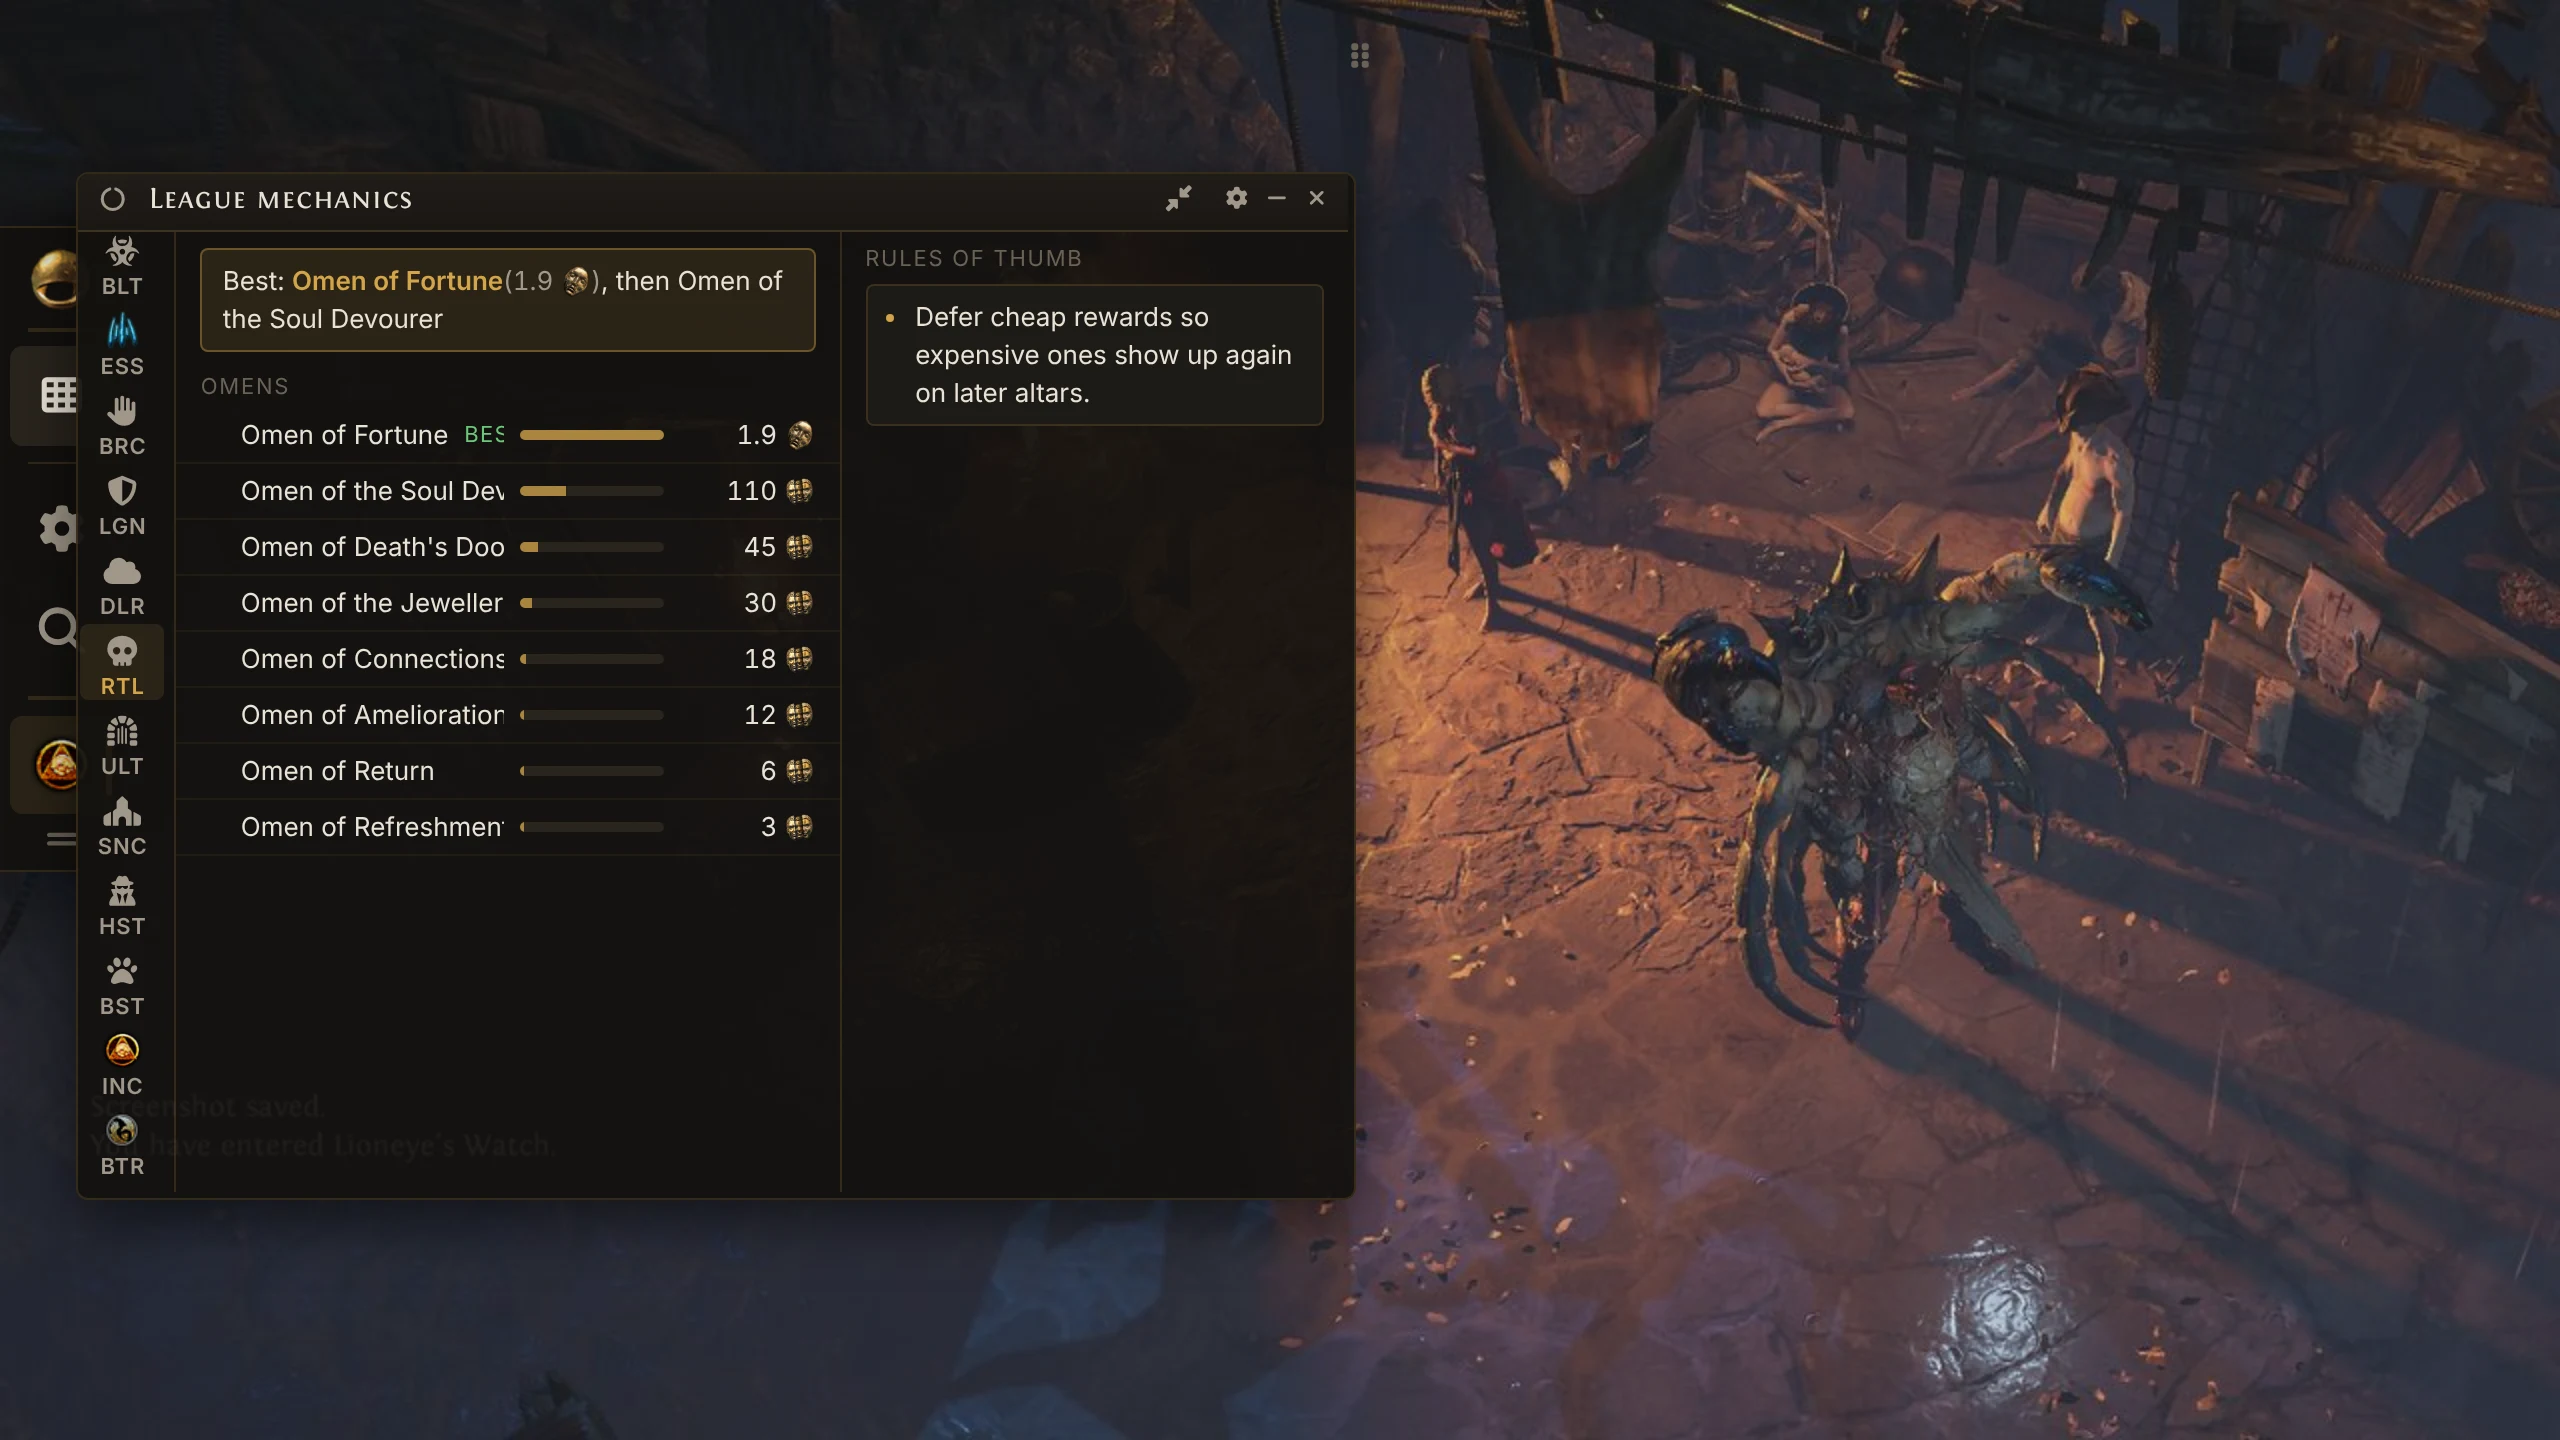
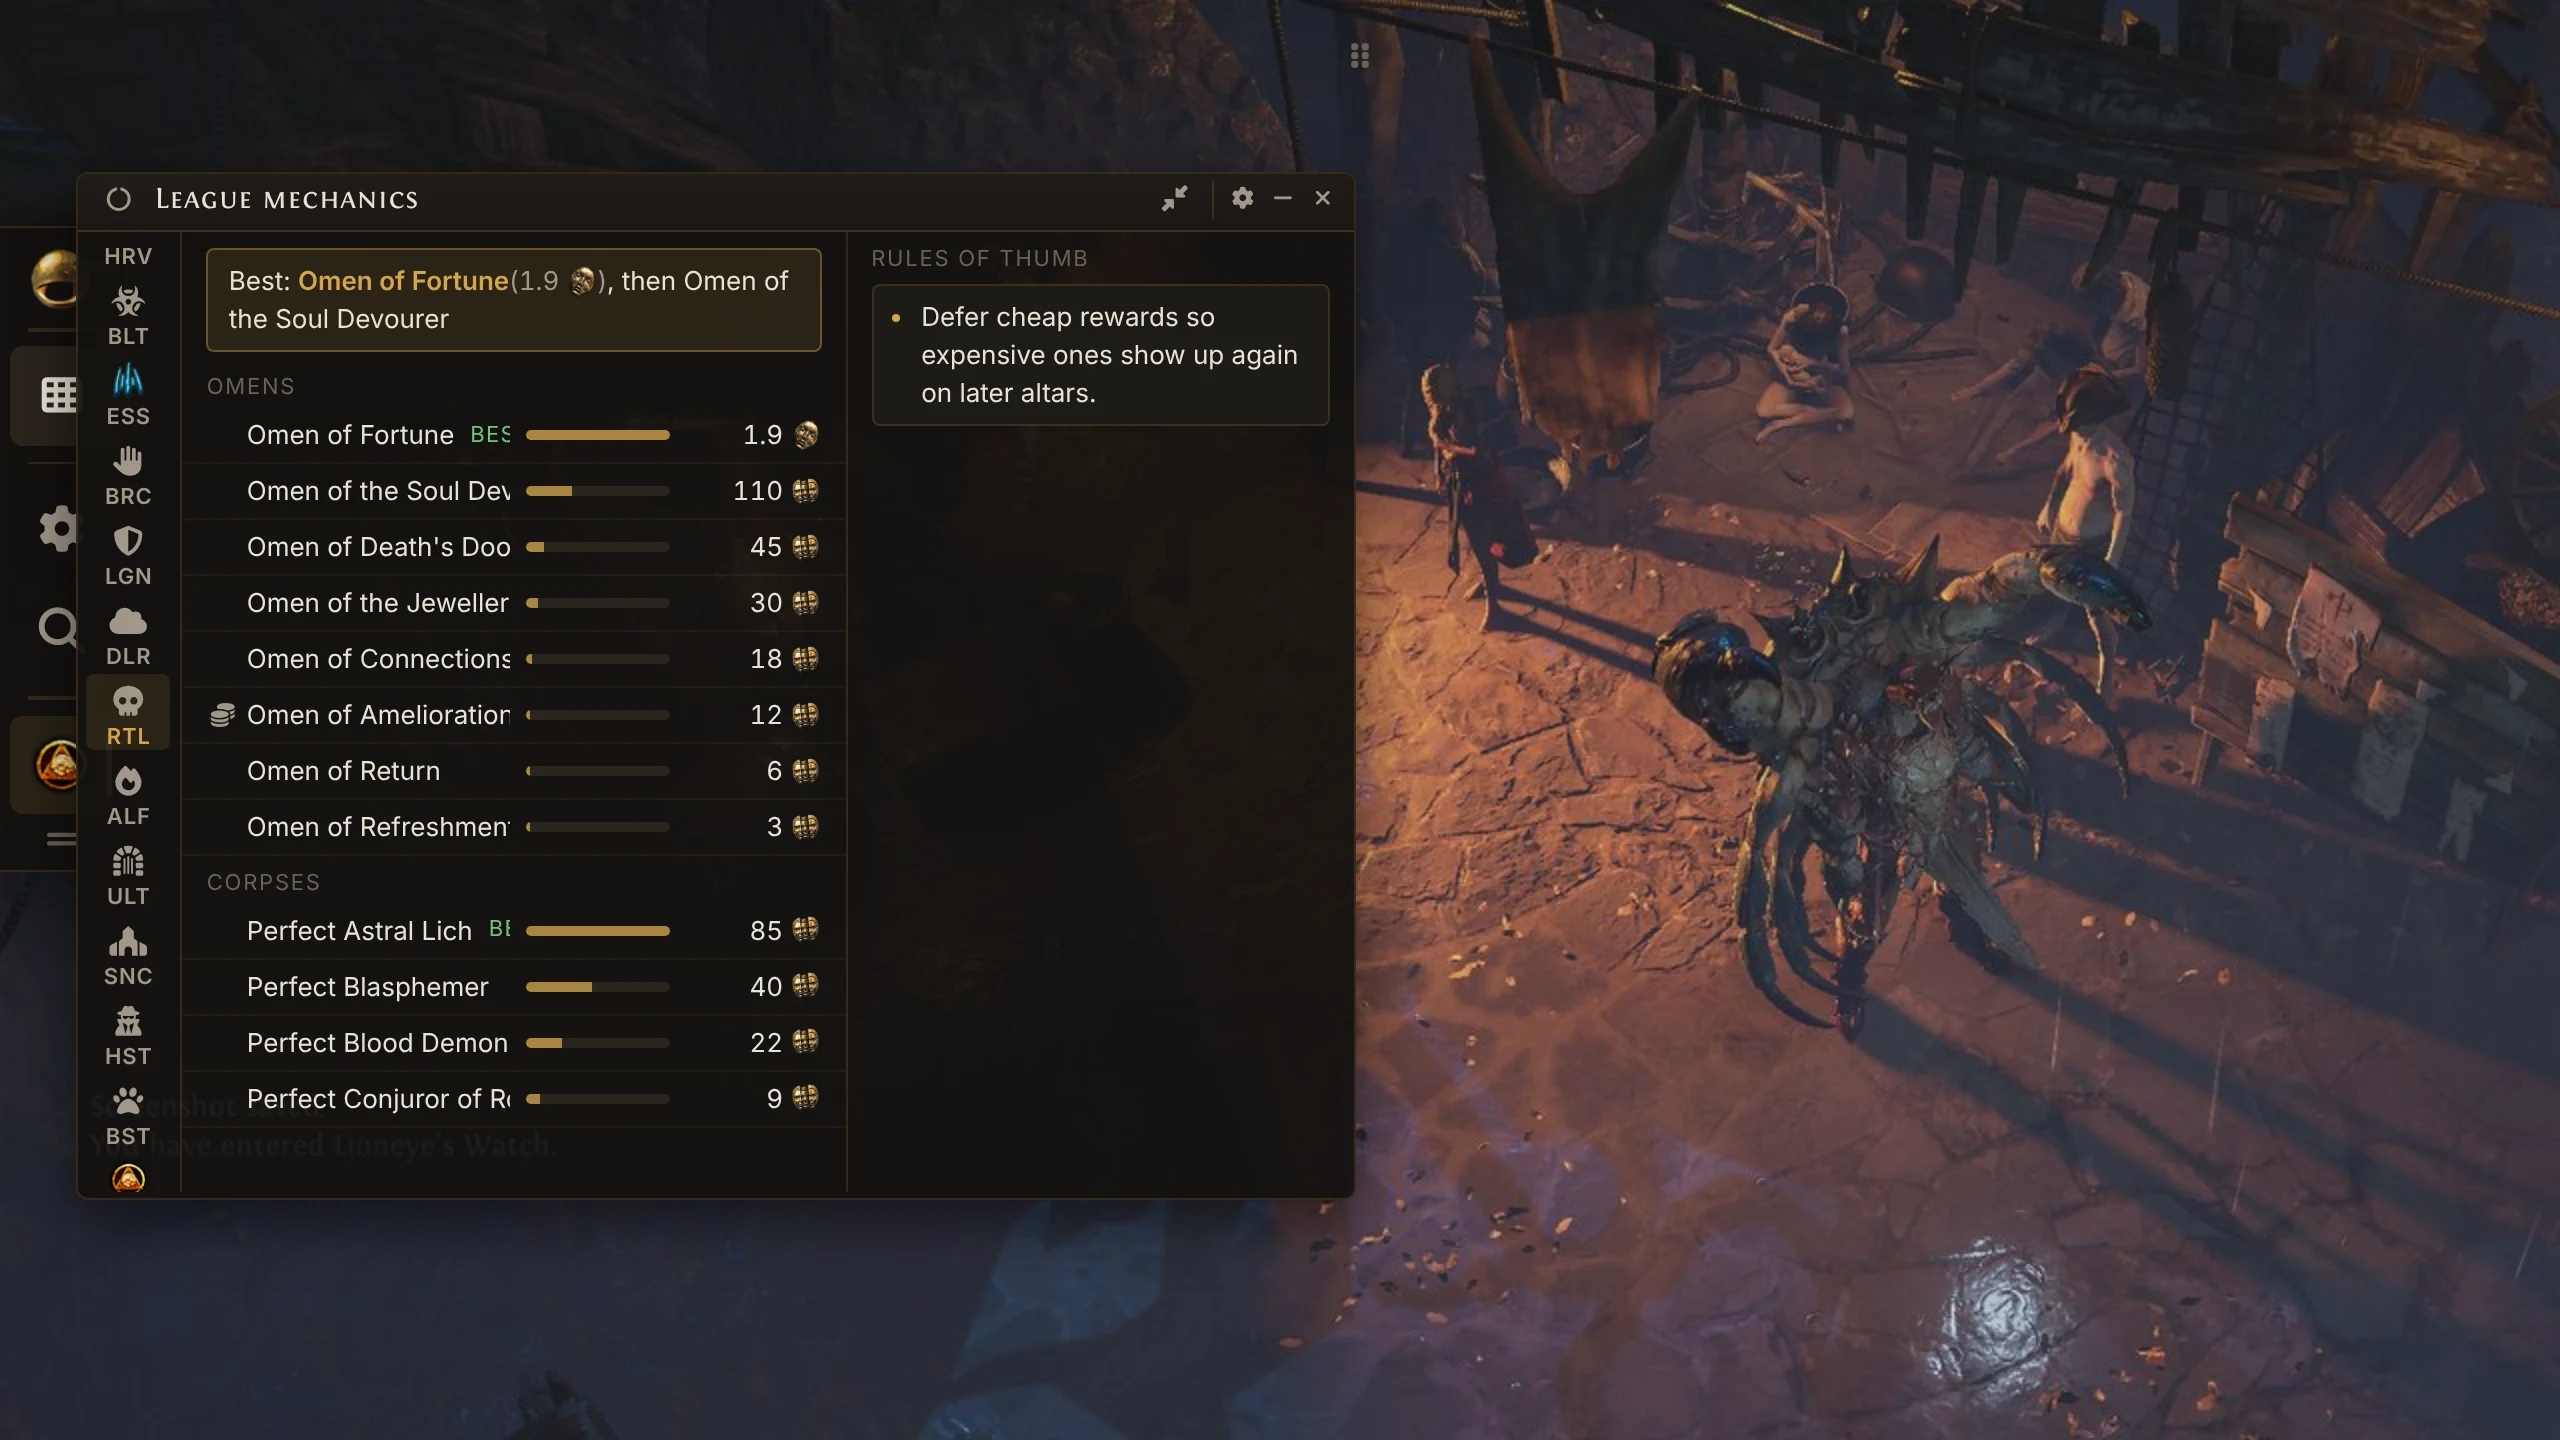
League mechanics: corpses on Ritual, Allflame Embers tab (#265)
* League mechanics: price corpses on Ritual, add an Allflame Embers tab

Corpses get their own price group on the Ritual tab, under omens. Allflame
Embers get a tab of their own with its icon and a settings guide entry.
Both read poe.ninja categories the market collector already saves.

Claude-Session: https://claude.ai/code/session_01HX6DZThM9XR4WkkfzzhTNh

* Landing: Ritual shot and caption show corpses

The Ritual sample prices gain corpses, so the regenerated shot shows the
new Corpses group instead of an empty one.

Claude-Session: https://claude.ai/code/session_01HX6DZThM9XR4WkkfzzhTNh

---------

diff --git a/docs/.vitepress/theme/landing/content.js b/docs/.vitepress/theme/landing/content.js
@@ -88,7 +88,7 @@ export const HIGHLIGHTS = [
           { label: 'Delve', shot: 'hl-mech-delve', focus: [700, 400, 720], text: 'Fossils ranked by price, so you only detour for the ones on top.', alt: 'Delve card: Fractured, Faceted and Glyphic Fossil priced' },
           { label: 'Blight', shot: 'hl-mech-blight', focus: [700, 420, 720], text: 'Every oil priced, top tier first.', alt: 'Blight card: Tainted, Golden and Prismatic Oil priced' },
           { label: 'Delirium', shot: 'hl-mech-delirium', focus: [700, 420, 720], text: 'Delirium orbs ranked while the fog is up.', alt: 'Delirium card: Kalguuran, Fine and Skittering Delirium Orb priced' },
-          { label: 'Ritual', shot: 'hl-mech-ritual', focus: [60, 120, 900], text: 'Omens ranked by price, so you know which ones to defer for.', alt: 'League mechanics window on Ritual: omens ranked by price, Omen of Fortune on top' },
+          { label: 'Ritual', shot: 'hl-mech-ritual', focus: [60, 120, 900], text: 'Omens and corpses ranked by price, so you know which ones to defer for.', alt: 'League mechanics window on Ritual: omens and corpses ranked by price, Omen of Fortune on top' },
           { label: 'Bestiary', shot: 'hl-mech-bestiary', focus: [700, 400, 720], text: 'When Einhar shows up, which beasts are worth catching.', alt: 'Bestiary card: Wild Brambleback, Fenumal Plagued Arachnid and Vivid Vulture priced' }
         ]
       },

diff --git a/testing/e2e/landing-highlights.spec.ts b/testing/e2e/landing-highlights.spec.ts
@@ -638,6 +638,9 @@ const MECHANIC_PRICES: Record<string, Array<[string, number]>> = {
     ['Omen of Fortune', 340], ['Omen of the Soul Devourer', 110], ['Omen of Death\'s Door', 45], ['Omen of the Jeweller', 30],
     ['Omen of Connections', 18], ['Omen of Amelioration', 12], ['Omen of Return', 6], ['Omen of Refreshment', 3]
   ],
+  Corpse: [
+    ['Perfect Astral Lich', 85], ['Perfect Blasphemer', 40], ['Perfect Blood Demon', 22], ['Perfect Conjuror of Rot', 9]
+  ],
   Beast: [
     ['Wild Brambleback', 120], ['Fenumal Plagued Arachnid', 22], ['Vivid Vulture', 8],
     ['Black Mórrigan', 6], ['Saqawine Rhex', 4], ['Wild Hellion Alpha', 3]
@@ -693,6 +696,7 @@ test('on screen: League mechanics folder, Ritual omens', async ({ overlay }) => 
   await overlay.page.getByRole('button', { name: /League mechanics/ }).first().click()
   await w.getByRole('tab', { name: /ritual/i }).click()
   await expect(w.getByText('Omen of Fortune').first()).toBeVisible()
+  await expect(w.getByText('Perfect Astral Lich').first()).toBeVisible()
   await overlay.page.mouse.move(1800, 1000)
   await saveAround(overlay, 'hl-mech-ritual', [w.locator('[data-w-panel]').first()], 1280)
 })

diff --git a/renderer/test/woke/mechanics-corpses.test.ts b/renderer/test/woke/mechanics-corpses.test.ts
@@ -1,0 +1,25 @@
+import { describe, it, expect } from 'vitest'
+import { mechanicById, priceGroup } from '@/web/woke/mechanics/data'
+import type { PriceItem } from '@/web/woke/market/types'
+
+const item = (type: string, name: string, chaos: number) => ({ type, name, variant: '', chaos }) as unknown as PriceItem
+
+const items = [
+  item('Omen', 'Omen of Fortune', 1200),
+  item('Corpse', 'Perfect Blasphemer', 120),
+  item('Corpse', 'Perfect Astral Lich', 300),
+  item('AllflameEmber', 'Allflame Ember of Flesh', 15),
+  item('AllflameEmber', 'Allflame Ember of Toads', 40)
+]
+
+describe('corpses and Allflame Embers', () => {
+  it('prices corpses on the Ritual tab, dearest first', () => {
+    const group = mechanicById('ritual')!.groups.find(g => g.label === 'Corpses')!
+    expect(priceGroup(group, items).map(r => r.item.name)).toEqual(['Perfect Astral Lich', 'Perfect Blasphemer'])
+  })
+
+  it('gives Allflame Embers their own tab', () => {
+    const mech = mechanicById('allflame')!
+    expect(priceGroup(mech.groups[0], items).map(r => r.item.name)).toEqual(['Allflame Ember of Toads', 'Allflame Ember of Flesh'])
+  })
+})

diff --git a/renderer/src/web/woke/mechanics/data.ts b/renderer/src/web/woke/mechanics/data.ts
@@ -188,11 +188,24 @@ export const MECHANICS: Mechanic[] = [
     short: 'RTL',
     icon: 'fas fa-skull',
     groups: [
-      { label: 'Omens', types: ['Omen'], limit: 12 }
+      { label: 'Omens', types: ['Omen'], limit: 12 },
+      { label: 'Corpses', types: ['Corpse'], limit: 12 }
     ],
     scarabs: /Ritual/,
     tips: [
       'Defer cheap rewards so expensive ones show up again on later altars.'
+    ]
+  },
+  {
+    id: 'allflame',
+    label: 'Allflame',
+    short: 'ALF',
+    icon: 'fas fa-fire',
+    groups: [
+      { label: 'Allflame Embers', types: ['AllflameEmber'], limit: 12 }
+    ],
+    tips: [
+      'Prices are for one ember.'
     ]
   },
   {

diff --git a/renderer/src/web/woke/ui/game-icons.ts b/renderer/src/web/woke/ui/game-icons.ts
@@ -39,6 +39,7 @@ export const MECHANIC_ICONS: Record<string, { src?: string, item?: string, fa: s
   betrayal: { src: '/images/veiled.png', fa: 'fas fa-user-secret' },
   maven: { src: '/images/maven-witness.png', fa: 'fas fa-eye' },
   ritual: { item: 'Ritual Splinter', fa: 'fas fa-circle-notch' },
+  allflame: { item: 'Allflame Ember of Flesh', fa: 'fas fa-fire' },
   expedition: { item: 'Exotic Coinage', fa: 'fas fa-compass' },
   delirium: { item: 'Simulacrum Splinter', fa: 'fas fa-cloud' },
   blight: { item: 'Clear Oil', fa: 'fas fa-tint' },

diff --git a/renderer/src/web/woke/mechanics/guide.ts b/renderer/src/web/woke/mechanics/guide.ts
@@ -64,7 +64,13 @@ export const GUIDE: Record<string, MechanicGuide> = {
   },
   ritual: {
     kind: 'none',
-    gets: 'Omens by price, to decide what is worth deferring. Ritual scarabs in the full panel.',
+    gets: 'Omens and corpses by price, to decide what is worth deferring. Ritual scarabs in the full panel.',
+    when: ['Only when you open it'],
+    gap: NOT_DETECTED
+  },
+  allflame: {
+    kind: 'none',
+    gets: 'Allflame Embers by price.',
     when: ['Only when you open it'],
     gap: NOT_DETECTED
   },
